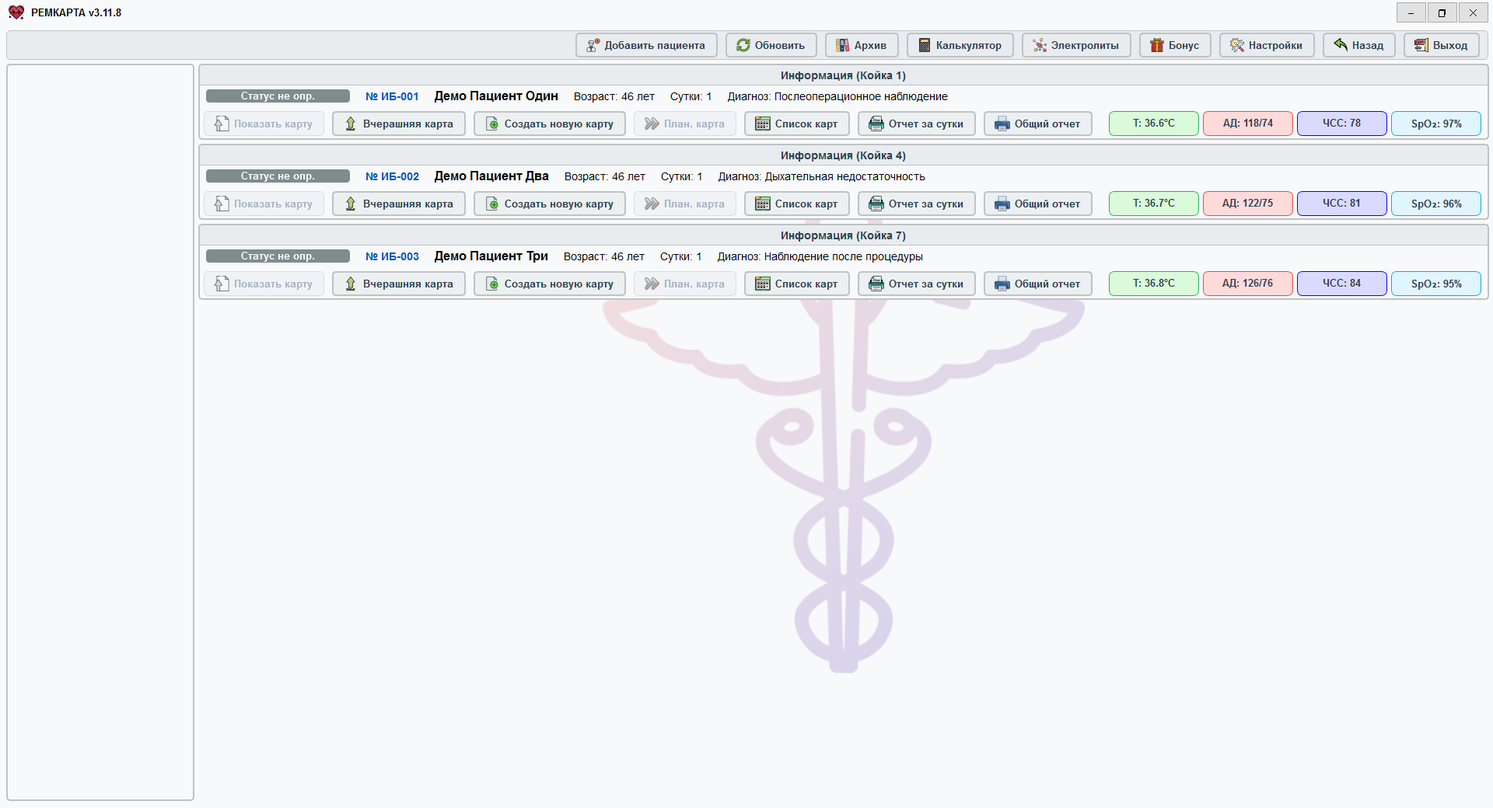
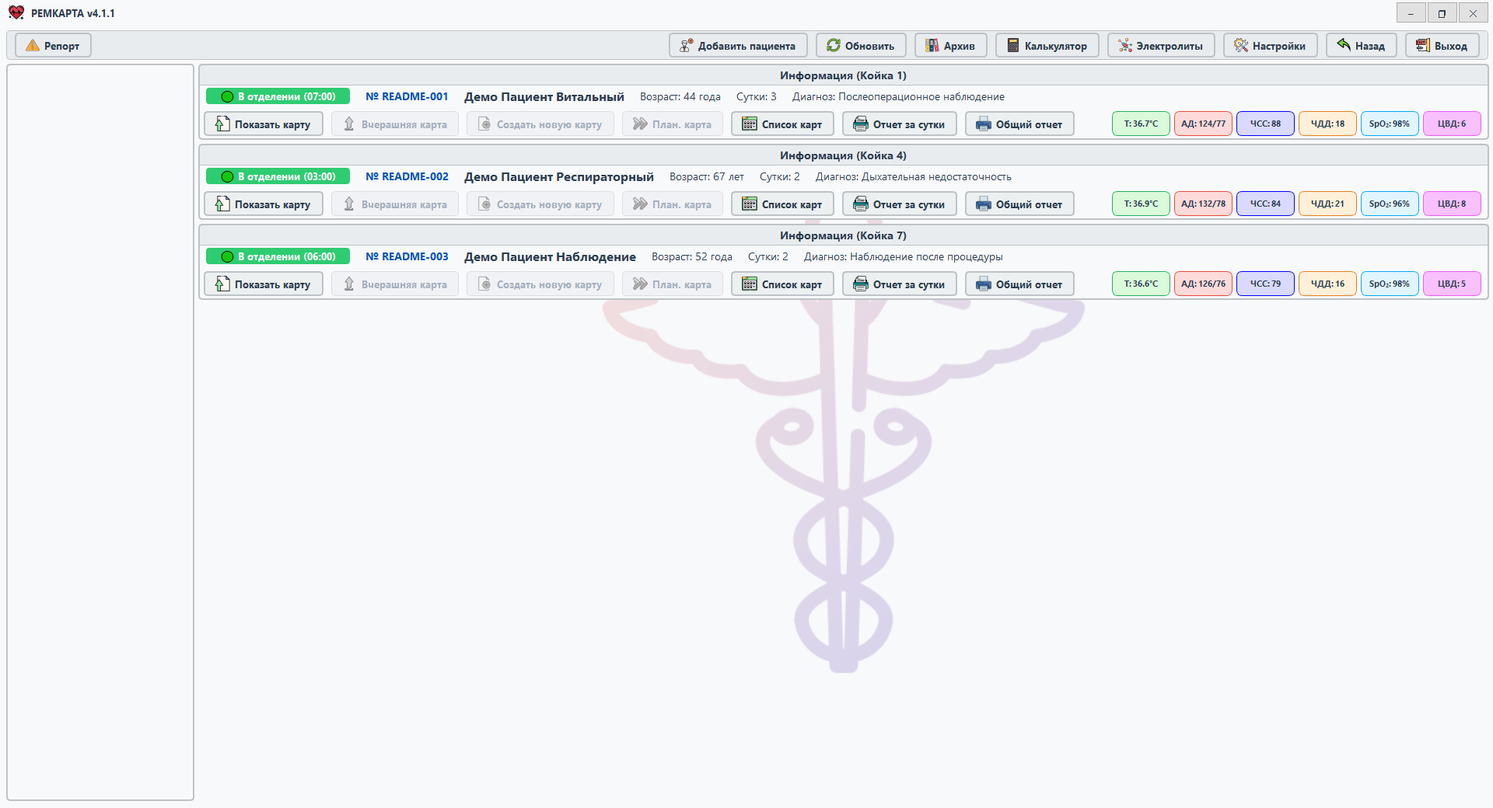
Обновить README актуальными экранами RemCard 4.1.1

Changed region(s): [[0.125, 0.0308, 1.0, 0.3692], [0.0, 0.0, 0.0938, 0.0615]]

diff --git a/README.md b/README.md
@@ -3,65 +3,81 @@
 </p>
 
 <p align="center">
-  <strong>Windows-приложение для ведения реанимационной карты пациента и совместной сменной работы.</strong><br>
+  <strong>Windows-приложение для ведения карты пациента и совместной сменной работы в ОРИТ и оперблоке.</strong><br>
   Назначения, витальные показатели, баланс жидкости, ИВЛ, процедуры, анализы, события, отчёты и архив — в одном рабочем контуре.
 </p>
 
 <p align="center">
-  <img alt="Python 3.11" src="https://img.shields.io/badge/Python-3.11-3776AB?style=flat-square&logo=python&logoColor=white">
-  <img alt="Windows" src="https://img.shields.io/badge/platform-Windows-0078D4?style=flat-square&logo=windows&logoColor=white">
-  <img alt="PySide6" src="https://img.shields.io/badge/UI-PySide6-41CD52?style=flat-square&logo=qt&logoColor=white">
-  <img alt="SQLite" src="https://img.shields.io/badge/DB-SQLite-003B57?style=flat-square&logo=sqlite&logoColor=white">
-  <img alt="Лицензия MIT" src="https://img.shields.io/badge/license-MIT-111827?style=flat-square">
-  <img alt="Экспериментальный статус" src="https://img.shields.io/badge/status-experimental-D97706?style=flat-square">
+  <code>Версия 4.1.1</code> · <code>Windows</code> · <code>Python 3.11</code> · <code>PySide6</code> · <code>SQLite</code> · <code>MIT</code> · <code>Экспериментальный проект</code>
 </p>
 
 <p align="center">
-  <a href="VERSION">Текущая версия</a> ·
-  <a href="CHANGELOG.md">История изменений</a> ·
+  <a href="#система-в-работе">Интерфейс</a> ·
+  <a href="#быстрый-запуск-из-исходников">Запуск из исходников</a> ·
+  <a href="#установленная-версия-и-обновления">Установка и обновления</a> ·
   <a href="docs/README.md">Документация</a> ·
-  <a href="LICENSE">MIT License</a>
+  <a href="CHANGELOG.md">Изменения</a> ·
+  <a href="LICENSE">Лицензия</a>
 </p>
 
 > [!WARNING]
-> **Рем Карта не является медицинским изделием или проверенной системой поддержки клинических решений.** Для реальной эксплуатации необходимы независимая техническая и клиническая проверка, приёмка в конкретной среде, резервный рабочий процесс и ответственный контроль.
+> **Рем Карта не является медицинским изделием и не заменяет клинические протоколы, клинические решения или ответственный контроль специалиста.** Для реальной эксплуатации необходимы независимая техническая и клиническая проверка, приёмка в конкретной среде и резервный рабочий процесс.
 
 ## Система в работе
 
-Скриншоты сделаны на временных демонстрационных базах. Они не содержат сведений о реальных пациентах.
+Скриншоты ниже сделаны в актуальном RemCard 4.1.1 на синтетических демонстрационных данных; сведения о реальных пациентах не используются.
 
 <p align="center">
-  <a href="docs/assets/readme/remcard-vitals-real-screenshot.png"><img src="docs/assets/readme/remcard-vitals-real-screenshot.png" width="100%" alt="Реанимационная карта с графиками витальных функций за смену"></a>
+  <a href="docs/assets/readme/remcard-real-screenshot.png"><img src="docs/assets/readme/remcard-real-screenshot.png" width="100%" alt="Главный экран RemCard с активными пациентами, быстрыми действиями и последними показателями"></a>
 </p>
 
-<p align="center"><em>Карта пациента: витальные показатели, суточная шкала и баланс жидкости.</em></p>
+<p align="center"><em>Активные койки и быстрый переход к карте пациента.</em></p>
 
 <p align="center">
-  <a href="docs/assets/readme/remcard-real-screenshot.png"><img src="docs/assets/readme/remcard-real-screenshot.png" width="100%" alt="Главный экран Рем Карты со списком активных пациентов и показателями"></a>
+  <a href="docs/assets/readme/remcard-vitals-real-screenshot.png"><img src="docs/assets/readme/remcard-vitals-real-screenshot.png" width="100%" alt="Карта пациента с графиками витальных функций, шкалой смены и балансом жидкости"></a>
 </p>
 
-<p align="center"><em>Главный экран: активные койки, быстрые действия и последние показатели.</em></p>
+<p align="center"><em>Одна карта смены: витальные функции, назначения, баланс жидкости, ИВЛ, процедуры и анализы.</em></p>
 
-## Один контур для всей смены
+<details>
+<summary><strong>Ролевые экраны: врач, медсестра и экстренная операционная</strong></summary>
 
-`Рем Карта` объединяет рабочие места отделения реанимации и интенсивной терапии вокруг общей папки данных.
+### Врач — сетка назначений на смену
 
-| Рабочее место | Основные задачи |
-|---|---|
-| **Врач** | Госпитализации и койки, карта пациента по сменам, назначения и шаблоны, процедуры, исходы, архив, отчёты и калькуляторы. |
-| **Медсестра** | Просмотр назначений, отметки о выполнении, сменная динамика, печать и рабочая статистика. |
-| **Оперблок** | Экстренная и плановая операционные, быстрые назначения, препараты, этапы и события операции, завершение случая и отчёты. |
-| **Администратор** | Состояние текущей и архивных БД, резервные копии, настройки, справочники и диагностика. |
+<p align="center">
+  <a href="docs/assets/readme/remcard-doctor-orders-screenshot.png"><img src="docs/assets/readme/remcard-doctor-orders-screenshot.png" width="100%" alt="Экран врача с расписанием назначений на сутки"></a>
+</p>
 
-Дополнительно приложение содержит аналитику и графики, печатные формы, МКБ, темы интерфейса, пользовательские обращения с диагностическими логами и ограниченный локальный режим оперблока при проблемах с сетью.
+### Медсестра — выполнение назначений
+
+<p align="center">
+  <a href="docs/assets/readme/remcard-nurse-orders-screenshot.png"><img src="docs/assets/readme/remcard-nurse-orders-screenshot.png" width="100%" alt="Экран медсестры с отметками о выполнении назначений"></a>
+</p>
+
+### Экстренная операционная — ход случая
+
+<p align="center">
+  <a href="docs/assets/readme/remcard-emergency-operating-room-screenshot.png"><img src="docs/assets/readme/remcard-emergency-operating-room-screenshot.png" width="100%" alt="Экран экстренной операционной с этапами операции, текущими показателями и назначениями"></a>
+</p>
+
+</details>
+
+## Роли в одном рабочем контуре
+
+- **Врач** — госпитализации и койки, карта пациента по сменам, назначения и шаблоны, процедуры, исходы, архив, отчёты и калькуляторы.
+- **Медсестра** — ближайшие назначения, отметки о выполнении, сменная динамика, печать и рабочая статистика.
+- **Оперблок** — экстренная и плановая операционные, быстрые назначения, препараты, этапы и события операции, завершение случая и отчёты.
+- **Администратор** — состояние текущей и архивных БД, резервные копии, настройки, справочники и диагностика.
+
+Дополнительно доступны графики и аналитика, печатные формы, МКБ, темы интерфейса, пользовательские обращения с диагностическими логами и ограниченный локальный режим оперблока при проблемах с сетью.
 
 ## Как устроен общий контур
 
 <p align="center">
-  <img src="docs/assets/readme/remcard-workflow.svg" width="100%" alt="Рабочие места врача, медсестры и оперблока записывают данные в общую папку с медицинской БД, настройками, резервными копиями и обновлениями">
+  <img src="docs/assets/readme/remcard-workflow.svg" width="100%" alt="Врач, медсестра и оперблок работают с общей папкой данных, медицинской БД, настройками и резервными копиями">
 </p>
 
-Интерфейс подтверждает сохранение только после успешной записи в БД. Изменения между рабочими местами передаются через `change_log` и специализированные снимки данных. Основной внутренний поток выглядит так: **интерфейс → сервисы → DAO → SQLite**.
+Интерфейс подтверждает сохранение только после успешной записи в БД. Изменения между рабочими местами передаются через `change_log` и специализированные снимки данных; основной поток — **интерфейс → сервисы → DAO → SQLite**.
 
 ## Быстрый запуск из исходников
 
@@ -77,7 +93,7 @@ python -m pip install -r requirements.txt
 python launcher.py
 ```
 
-`launcher.py` запускает приложение без заранее закреплённой роли. Рабочие места можно открыть напрямую:
+`launcher.py` не закрепляет роль. При необходимости запустите конкретное рабочее место:
 
 ```powershell
 python run_doctor.py
@@ -90,89 +106,56 @@ python run_operblock_planned.py
 > Для разработки и испытаний используйте отдельную папку данных, а не рабочую production-БД. Dev-сеанс не создаёт и не проверяет файловую блокировку роли: транзакционные блокировки SQLite защищают отдельные записи, но не заменяют изоляцию тестовой среды.
 
 <details>
-<summary><strong>Как выбирается dev-база</strong></summary>
+<summary><strong>Dev-база: выбор и защита от случайной подмены</strong></summary>
 
-По умолчанию исходная версия использует стандартную dev-папку данных в родительском каталоге репозитория:
+Исходная версия использует локальную dev-папку данных; при первом запуске может быть создана недостающая структура. Список выбранных папок и активный путь хранятся отдельно для каждого checkout в `.remcard/dev_database_paths.json`.
 
-```text
-C:\Project\rem_card                 # репозиторий
-C:\Project\<стандартная dev-папка> # dev-БД, логи, настройки и тестовый UPD
-```
-
-При первом запуске приложение может создать недостающую локальную структуру. Кнопка «Смена базы» позволяет сохранить несколько папок и выбрать активную. Выбор хранится отдельно для каждого checkout в `.remcard/dev_database_paths.json` и применяется после безопасного перезапуска.
-
-Выбранная существующая база проверяется без права незаметно создать пустую БД вместо пропавшего файла. Старый `%LOCALAPPDATA%\RemCard\dev_database_paths.json` используется только для однократного переноса настройки.
+Выбранная существующая база открывается с проверкой: приложение не должно незаметно создать пустую БД вместо пропавшей. Старый путь `%LOCALAPPDATA%\RemCard\dev_database_paths.json` используется только для однократного переноса настройки.
 
 </details>
 
 ## Установленная версия и обновления
 
-В репозитории нет MSI-установщика или Docker-развёртывания. Рабочая Windows-версия распространяется полной папкой PyInstaller с шестью файлами запуска:
+Рабочая Windows-версия распространяется полной папкой PyInstaller, а не MSI или Docker-образом.
 
 | Файл | Назначение |
-|---|---|
+| --- | --- |
 | `RemCardDoctor.exe` | Рабочее место врача. |
 | `RemCardNurse.exe` | Рабочее место медсестры. |
 | `RemCardOperBlockEmergency.exe` | Экстренная операционная. |
 | `RemCardOperBlockPlanned.exe` | Плановая операционная. |
-| `RemCardPathSetup.exe` | Смена общей папки данных. |
+| `RemCardPathSetup.exe` | Выбор общей папки данных. |
 | `RemCardUpdater.exe` | Установка полного обновления. |
 
-При первом запуске ролевого EXE программа просит выбрать общую папку данных, создаёт в ней необходимую структуру и сохраняет рядом с программой `remcard_data_path.json`. Обновления ищутся в `<папка данных>\UPD\releases`.
-
-Проект использует только **полные обновления**. Уровень `PATCH` в SemVer описывает размер изменения версии, а не отдельный формат пакета.
+При первом запуске ролевого EXE выбирается общая папка данных; рядом с программой сохраняется `remcard_data_path.json`. Обновления ищутся в `<папка данных>\UPD\releases`. Проект использует только **полные обновления**: `PATCH` в SemVer описывает уровень версии, а не отдельный формат пакета.
 
 <details>
-<summary><strong>Тестовая сборка незакоммиченных изменений</strong></summary>
+<summary><strong>Тестовая сборка и безопасная production-публикация</strong></summary>
+
+Непубликуемая сборка текущего рабочего дерева:
 
 ```powershell
 .\.venv\Scripts\python.exe scripts\build_release.py --test-worktree
 ```
 
-Команда запускает обязательные проверки, PyInstaller и smoke-тест всех шести EXE, но не меняет `VERSION`, `CHANGELOG.md` и `app/release_info.json`, не создаёт коммит, не выполняет `git push` и не публикует пакет в `UPD`. Результат сохраняется в `dist\Prog` с маркером `TEST_WORKTREE_ONLY.txt`, который блокирует случайную production-публикацию.
+Она запускает обязательные проверки, PyInstaller и smoke-тест шести EXE, но не меняет `VERSION`, `CHANGELOG.md` или `app/release_info.json`, не создаёт коммит, не выполняет `git push` и не публикует пакет. Результат помечается `TEST_WORKTREE_ONLY.txt`, поэтому не может быть случайно опубликован в production.
+
+Для рабочего релиза версия и точный коммит сначала должны находиться в GitHub `main`; затем менеджер релизов запускает `scripts\build_release.py` с `--expected-version` и `--expected-commit`. После приёмки на изолированной тестовой БД пакет переносится отдельной командой `scripts\publish_full_update.py`. `ready.ok` создаётся последним: после его появления версия сразу доступна клиентам этой базы. Подробности: [сборка и публикация](docs/how_to_build_and_update.md) и [автообновление](docs/auto_update.md).
 
 </details>
 
-<details>
-<summary><strong>Сборка и публикация рабочего релиза</strong></summary>
+## Общая SQLite-БД и безопасность данных
 
-Версия сначала подготавливается отдельным коммитом и попадает в GitHub `main`. Менеджер релизов считывает точные версию и коммит, синхронизирует чистую локальную ветку и запускает:
+Медицинская БД находится в `archiv/rao_journal.db`, а справочники, темы, фоны и настройки — в `settings/remcard_settings.db`. JSON-файлы репозитория служат начальными данными и слоем совместимости, но не являются рабочим источником истины установленной версии.
 
-```powershell
-.\.venv\Scripts\python.exe scripts\build_release.py `
-  --expected-version <версия GitHub> `
-  --expected-commit <40-символьный-коммит GitHub>
-```
+Для общей сетевой БД закреплены следующие правила:
 
-После приёмки на отдельной тестовой БД пакет явно переносится в сетевую рабочую базу:
+- `journal_mode=DELETE`, `synchronous=EXTRA`, `mmap_size=0`; WAL для shared DB запрещён;
+- записи проходят через контроллер, файловую блокировку и транзакции;
+- живая БД резервируется только через SQLite Backup API, не простым копированием открытого файла;
+- для миграций, восстановления и ротации предусмотрены проверенные backup, `quick_check` и `integrity_check`.
 
-```powershell
-.\.venv\Scripts\python.exe scripts\publish_full_update.py `
-  --source "<локальная папка данных>\UPD\releases\<проверенная версия>" `
-  --config "<папка установленной программы>\remcard_data_path.json"
-```
-
-Publisher повторно проверяет пакет и наличие исходного коммита в `origin`, поддерживает возобновляемое копирование и создаёт `ready.ok` последним.
-
-> [!IMPORTANT]
-> После появления `ready.ok` в рабочем сетевом каталоге версия сразу доступна всем клиентам этой базы. Приёмка должна быть завершена на изолированной тестовой базе **до** публикации.
-
-Подробности: [сборка и публикация](docs/how_to_build_and_update.md) и [автообновление](docs/auto_update.md).
-
-</details>
-
-## Архитектура и хранение данных
-
-Основная медицинская БД находится в `archiv/rao_journal.db`. Справочники, темы, фоны и настройки хранятся в `settings/remcard_settings.db`; JSON-файлы репозитория служат начальными данными и слоем совместимости, но не являются рабочим источником истины установленной версии.
-
-Для сетевой SQLite-БД закреплён защитный профиль:
-
-- `journal_mode=DELETE`, `synchronous=EXTRA`, `mmap_size=0`;
-- запись через блокировки, очередь и транзакции;
-- резервное копирование через SQLite Backup API, а не копированием открытого файла;
-- проверки запуска, миграций, целостности, старых клиентов и восстановления.
-
-Эти механизмы снижают известные риски, но не делают произвольное сетевое размещение SQLite автоматически безопасным. Права, задержки, резервирование и восстановление требуют отдельной эксплуатационной приёмки.
+Эти меры уменьшают известные риски, но не делают произвольное сетевое размещение SQLite автоматически безопасным. Права доступа, задержки, резервирование и восстановление требуют отдельной эксплуатационной приёмки. Полный контракт: [безопасность БД](docs/db_safety_contract.md).
 
 ## Проверки для разработчика
 
@@ -187,49 +170,19 @@ python scripts\regression_safety_checks.py --profile fast --jobs 4
 git diff --check
 ```
 
-Сетевые стенды, restore drill, аварийный режим и offline-режим оперблока читают или изменяют файлы выбранной папки данных. Запускайте их только с осознанно заданной тестовой базой по [регламенту приёмки](docs/operational_acceptance.md) и [инструкции проверки резервных копий](docs/backup_restore_drill.md).
+Сетевые стенды, restore drill, аварийный и offline-режимы читают или изменяют выбранную папку данных. Запускайте их только с осознанно заданной тестовой базой по [регламенту приёмки](docs/operational_acceptance.md) и [инструкции проверки резервных копий](docs/backup_restore_drill.md).
 
-## Карта репозитория
-
-| Путь | Назначение |
-|---|---|
-| `launcher.py`, `run_*.py` | Запуск из исходников и точки входа ролей. |
-| `app/` | Запуск, роли, пути, жизненный цикл БД, аварийный режим, резервирование и обновления. |
-| `data/` | DAO, DTO, схемы, импорт и release snapshot настроек. |
-| `services/` | Бизнес-логика, координация чтения и записи, отчёты, аналитика и оперблок. |
-| `ui/` | Интерфейсы врача, медсестры, оперблока, карты пациента, аналитики и общих компонентов. |
-| `scripts/` | Проверки, диагностика, сборка, публикация, резервирование и восстановление. |
-| `tests/` | Тесты `pytest`, включая регрессии БД, назначений, интерфейса и release-процесса. |
-| `docs/` | Действующие регламенты, отчёты и исторические архитектурные снимки. |
-| `icon/`, `procedure_templates/` | Графические ресурсы и шаблоны процедур. |
-| `RemCard.spec` | Описание полной onedir-сборки PyInstaller. |
-| `VERSION`, `CHANGELOG.md` | Текущая версия и журнал изменений. |
-
-## Документация
+## Документы, статус и связь
 
 - [Карта документации](docs/README.md) — действующие регламенты и исторические материалы.
-- [История изменений](CHANGELOG.md) — пользовательские и технические изменения по версиям.
-- [Версионность](docs/versioning.md) — SemVer и неизменяемая GitHub-сборка.
-- [Сборка и публикация](docs/how_to_build_and_update.md) — рабочий процесс владельца проекта.
-- [Автообновление](docs/auto_update.md) — проверка, установка и откат полного пакета.
-- [Контракт безопасности БД](docs/db_safety_contract.md) — инварианты SQLite, миграций и recovery.
-- [Эксплуатационная приёмка](docs/operational_acceptance.md) — обязательные и профильные проверки.
-- [Аварийная инструкция](docs/emergency_runbook.md) — действия при недоступной или занятой БД.
+- [История изменений](CHANGELOG.md) и [`VERSION`](VERSION) — изменения и текущая версия.
+- [Версионность](docs/versioning.md), [автообновление](docs/auto_update.md) и [сборка](docs/how_to_build_and_update.md) — full-release процесс.
+- [Контракт безопасности БД](docs/db_safety_contract.md), [эксплуатационная приёмка](docs/operational_acceptance.md) и [аварийная инструкция](docs/emergency_runbook.md) — безопасная эксплуатация.
 
-## Статус проекта
+Проект экспериментальный и активно меняется. Тесты, статические проверки, резервирование и защитные механизмы не заменяют независимый технический, информационно-безопасностный и клинический аудит.
 
-Проект экспериментальный и активно меняется. Актуальная версия находится в [`VERSION`](VERSION), изменения — в [`CHANGELOG.md`](CHANGELOG.md).
-
-Это первый крупный программный проект автора, развиваемый при активной помощи AI-инструментов. В коде остаются архитектурные компромиссы, legacy-участки и технический долг. Тесты, статические проверки, резервирование и защитные механизмы не заменяют независимый технический, информационно-безопасностный и клинический аудит.
-
-## Связь и вклад
-
-Приветствуются сообщения об ошибках и предложения по архитектуре, производительности и безопасной эксплуатации. Особенно полезна помощь специалистов, способных улучшить проект для реальной работы ОРИТ, не нарушив логику данных, миграций и существующих процессов.
-
-Связаться с автором: [menfise@mail.ru](mailto:menfise@mail.ru), тема письма — `РЕМ КАРТА`.
+Для сообщений об ошибках и предложений по архитектуре, производительности и безопасной эксплуатации: [menfise@mail.ru](mailto:menfise@mail.ru), тема письма — `РЕМ КАРТА`.
 
 ## Лицензия и ответственность
 
-Код распространяется по лицензии [MIT](LICENSE) и предоставляется «как есть». Автор не несёт ответственности за потерю данных, повреждение БД, неверное поведение приложения, ошибочные решения или другой ущерб.
-
-Разработчикам следует относиться к репозиторию как к крупному экспериментальному Windows-проекту, а не к эталонной production-архитектуре. Использование допускается только после самостоятельной оценки рисков и под ответственность пользователя или организации.
+Код распространяется по лицензии [MIT](LICENSE) и предоставляется «как есть». Использование допускается только после самостоятельной оценки рисков и под ответственность пользователя или организации.
